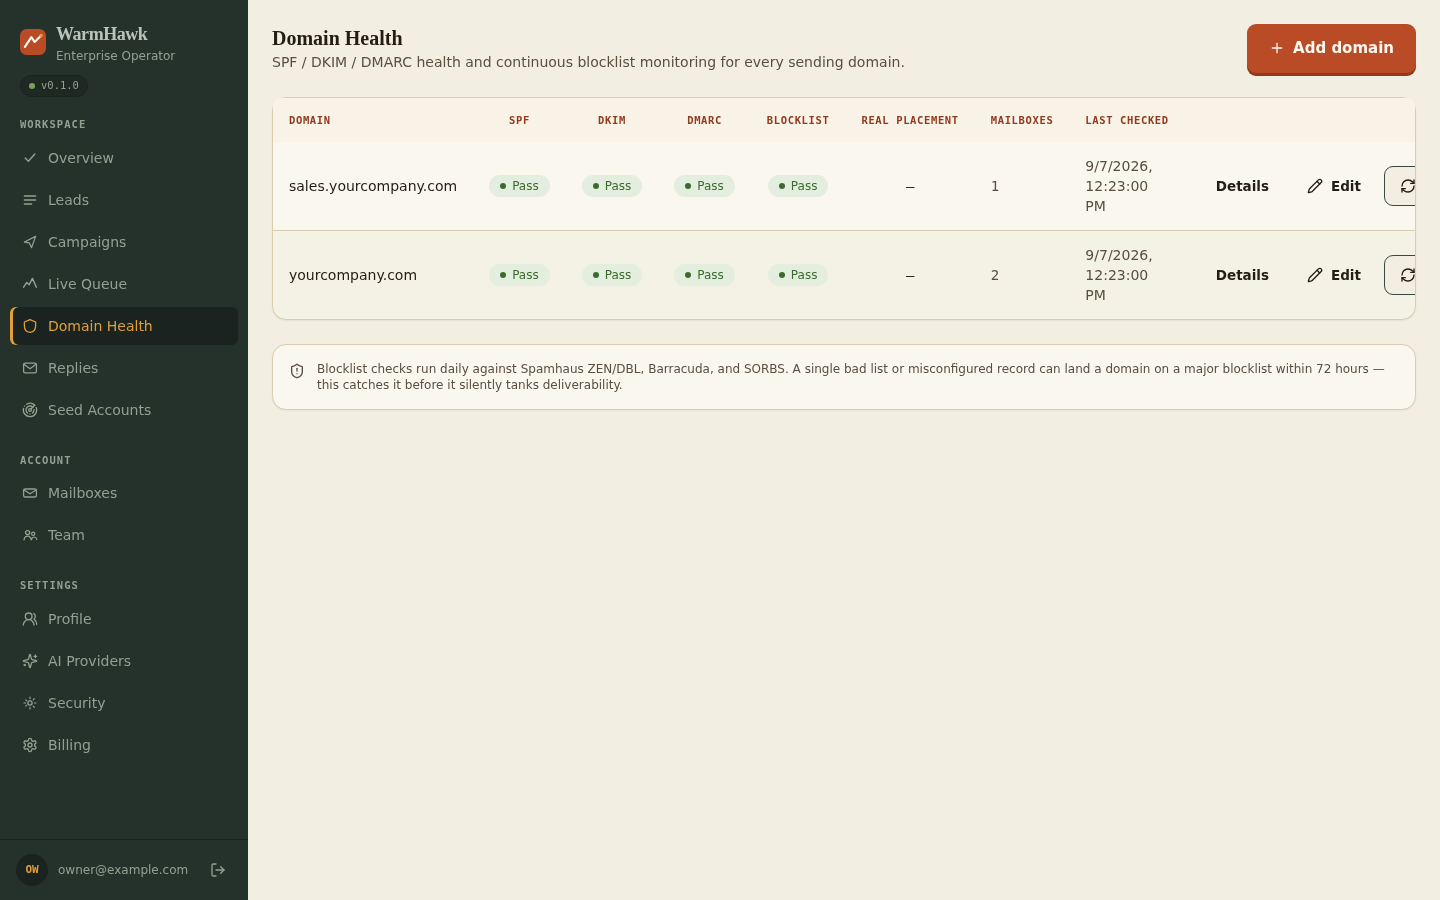
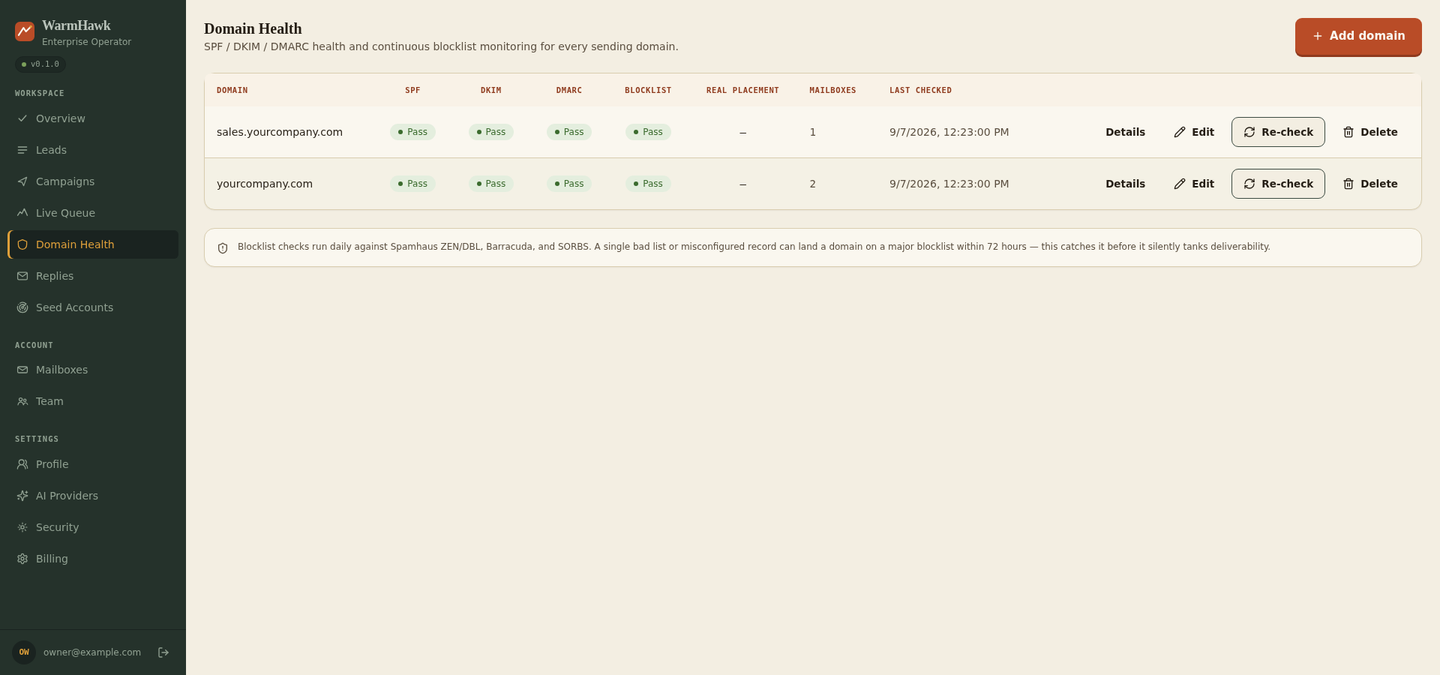
fix: restore dashboard page margins, frame screenshots, fix clipped domains capture
The dashboard page's root div was missing the sitewide .wrap class, so it
rendered edge-to-edge with no side margins in production unlike every other
page. Each screenshot now gets a browser-chrome frame (traffic-light dots +
url path) so it reads as a captured image rather than a live embedded panel.
The domains.png screenshot itself was also clipping the Re-check/Delete
actions at the table's right edge; recaptured at a wider viewport so the
full row is visible.

Adds regression tests for both the .wrap class and the browser-chrome frame.

diff --git a/app/dashboard/page.tsx b/app/dashboard/page.tsx
@@ -24,15 +24,28 @@ function Shot({
   alt,
   title,
   body,
+  path,
 }: {
   id: string;
   src: string;
   alt: string;
   title: string;
   body: string;
+  path: string;
 }) {
   return (
     <div className="card bg-cream overflow-hidden mb-10">
+      {/* Browser-chrome frame: without it, a full-bleed screenshot reads as a live embedded panel
+          rather than a picture of one. Traffic-light dots + a url bar are the standard cue that
+          says "this is a captured screenshot," matching the page copy's own claim below. */}
+      <div className="flex items-center gap-2 px-4 py-2.5 bg-slate-deep">
+        <span className="flex gap-1.5" aria-hidden="true">
+          <span className="w-2.5 h-2.5 rounded-full bg-fail/70" />
+          <span className="w-2.5 h-2.5 rounded-full bg-pending/70" />
+          <span className="w-2.5 h-2.5 rounded-full bg-pass/70" />
+        </span>
+        <span className="ml-1.5 font-mono text-[11px] text-slate-soft/70 truncate">{path}</span>
+      </div>
       <a href={`#zoom-${id}`} aria-label={`Zoom in: ${alt}`} className="group relative block">
         <img src={src} alt={alt} className="w-full border-b border-border" />
         <span
@@ -83,7 +96,7 @@ function Shot({
 
 export default function DashboardPage() {
   return (
-    <div className="py-16">
+    <div className="wrap py-16">
       <div className="label text-rust mb-5">Tier 1 / Tier 2</div>
       <h1 className="font-display text-4xl md:text-[48px] leading-tight font-semibold mb-6 max-w-3xl">
         The dashboard you run day to day &mdash; no API, no code.
@@ -110,6 +123,7 @@ export default function DashboardPage() {
 
       <Shot
         id="queue"
+        path="app.warmhawk.com/dashboard/queue"
         src="/dashboard-screens/queue.png"
         alt="WarmHawk operator dashboard Live Queue page, showing real-time BullMQ dispatcher state"
         title="Live queue inspector"
@@ -118,6 +132,7 @@ export default function DashboardPage() {
 
       <Shot
         id="domains"
+        path="app.warmhawk.com/dashboard/domains"
         src="/dashboard-screens/domains.png"
         alt="WarmHawk operator dashboard Domain Health page, tracking SPF, DKIM, DMARC, and blocklist status per domain"
         title="Domain health, tracked automatically"
@@ -126,6 +141,7 @@ export default function DashboardPage() {
 
       <Shot
         id="team"
+        path="app.warmhawk.com/dashboard/team"
         src="/dashboard-screens/team.png"
         alt="WarmHawk operator dashboard Team members page"
         title="Team, without a permissions system to configure"
@@ -134,6 +150,7 @@ export default function DashboardPage() {
 
       <Shot
         id="security"
+        path="app.warmhawk.com/dashboard/settings/security"
         src="/dashboard-screens/security.png"
         alt="WarmHawk operator dashboard Security page, two-factor authentication setup"
         title="2FA required on every dashboard login"

diff --git a/app/dashboard/page.test.ts b/app/dashboard/page.test.ts
@@ -29,6 +29,25 @@ describe('DashboardPage (app/dashboard/page.tsx)', () => {
     expect(cta).toHaveAttribute('href', '/checkout?tier=1');
   });
 
+  /**
+   * Regression test: this page originally shipped with a bare `<div className="py-16">` root
+   * instead of `<div className="wrap py-16">`, so on desktop the content ran edge-to-edge with no
+   * side margins while every other page on the site (via its own root or, for /docs/*, the shared
+   * app/docs/layout.tsx) uses `.wrap` (max-width + centered + responsive x-padding, defined in
+   * globals.css). No unit test caught it at the time: content/attribute assertions don't fail when
+   * a layout class goes missing, and jsdom doesn't compute real CSS layout at all — the bug was
+   * only visible by actually looking at a rendered screenshot next to another page's, which this
+   * suite didn't do. This won't re-catch a *visual* regression, but it does pin the specific class
+   * whose absence caused this one, so the same mistake can't ship silently again.
+   */
+  it('wraps its content in the sitewide .wrap class, matching every other page', () => {
+    const { container } = render(createElement(DashboardPage));
+
+    const root = container.firstElementChild;
+    expect(root).not.toBeNull();
+    expect(root!.className.split(' ')).toContain('wrap');
+  });
+
   it('renders all four real dashboard screenshots with real image sources', () => {
     render(createElement(DashboardPage));
 
@@ -95,6 +114,29 @@ describe('DashboardPage (app/dashboard/page.tsx)', () => {
       expect(overlay.className).toContain('hidden');
       expect(overlay.className).toContain('target:block');
       expect(overlay.className).toContain('sm:target:flex');
+    }
+  });
+
+  /**
+   * Regression test: a bare full-bleed <img> reads as a live embedded panel rather than a picture
+   * of one, which is exactly the confusion the page's own copy ("real screenshot... not a
+   * mockup") is trying to head off. Each Shot gets a browser-chrome frame (traffic-light dots + a
+   * url-bar-style path) above the image — this pins that every screenshot has one, with a
+   * plausible, non-empty path shown.
+   */
+  it('frames every screenshot with a browser-chrome bar so it reads as a captured image', () => {
+    const { container } = render(createElement(DashboardPage));
+
+    const cards = container.querySelectorAll('.card.bg-cream');
+    expect(cards.length).toBe(4);
+
+    for (const card of cards) {
+      const dots = card.querySelectorAll('.bg-fail\\/70, .bg-pending\\/70, .bg-pass\\/70');
+      expect(dots.length).toBe(3);
+
+      const pathLabel = card.querySelector('.font-mono');
+      expect(pathLabel).not.toBeNull();
+      expect(pathLabel!.textContent).toMatch(/^app\.warmhawk\.com\/dashboard/);
     }
   });
 
